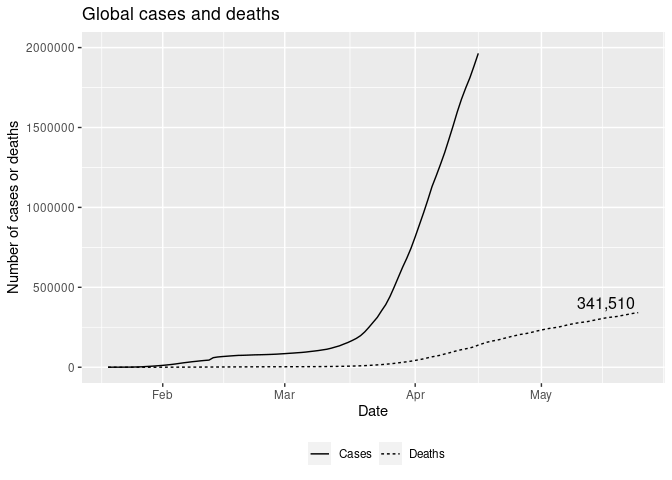
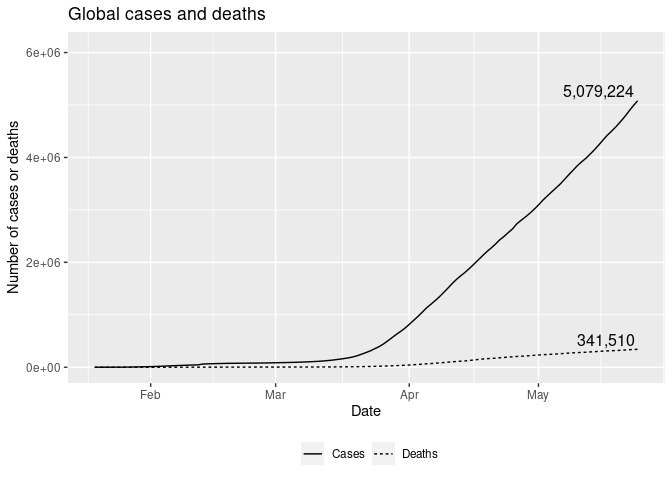
Re-build README.Rmd

diff --git a/README.md b/README.md
@@ -5,7 +5,7 @@ Readme](https://github.com/rstats-tartu/covid-19-cases/workflows/Render%20and%20
 # COVID-19 cases and deaths
 
 rstats-tartu  
-last update: 2020-05-24 16:00:03
+last update: 2020-05-24 16:20:36
 
 ## Contents
 
@@ -126,7 +126,7 @@ cumlong %>%
   labs(x = "Date", 
        y = "Number of cases or deaths",
        title = "Global cases and deaths") +
-  scale_y_continuous(limits = c(0, 2e6)) +
+  scale_y_continuous(limits = c(0, max(cumlong$value) * 1.2)) +
   scale_linetype_discrete(labels = c("Cases", "Deaths")) +
   theme(legend.title = element_blank(),
         legend.position = "bottom")
